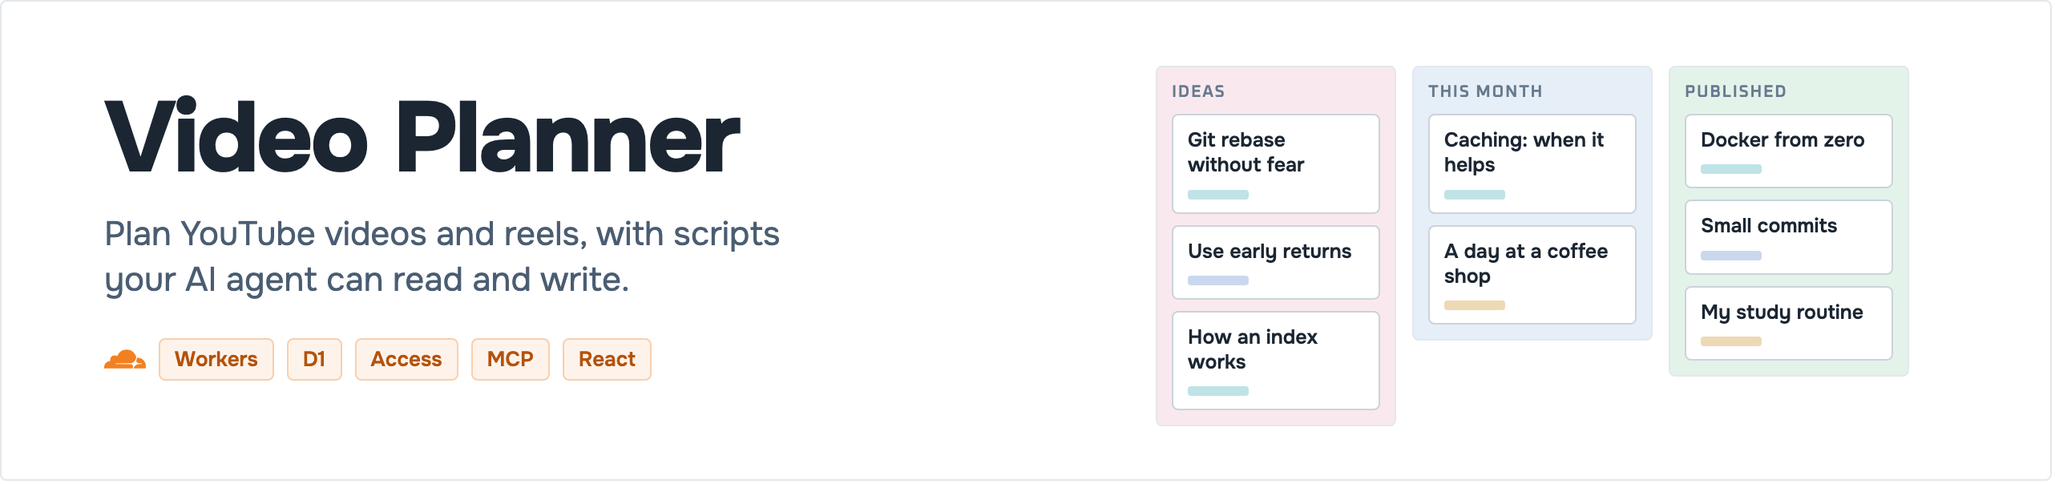
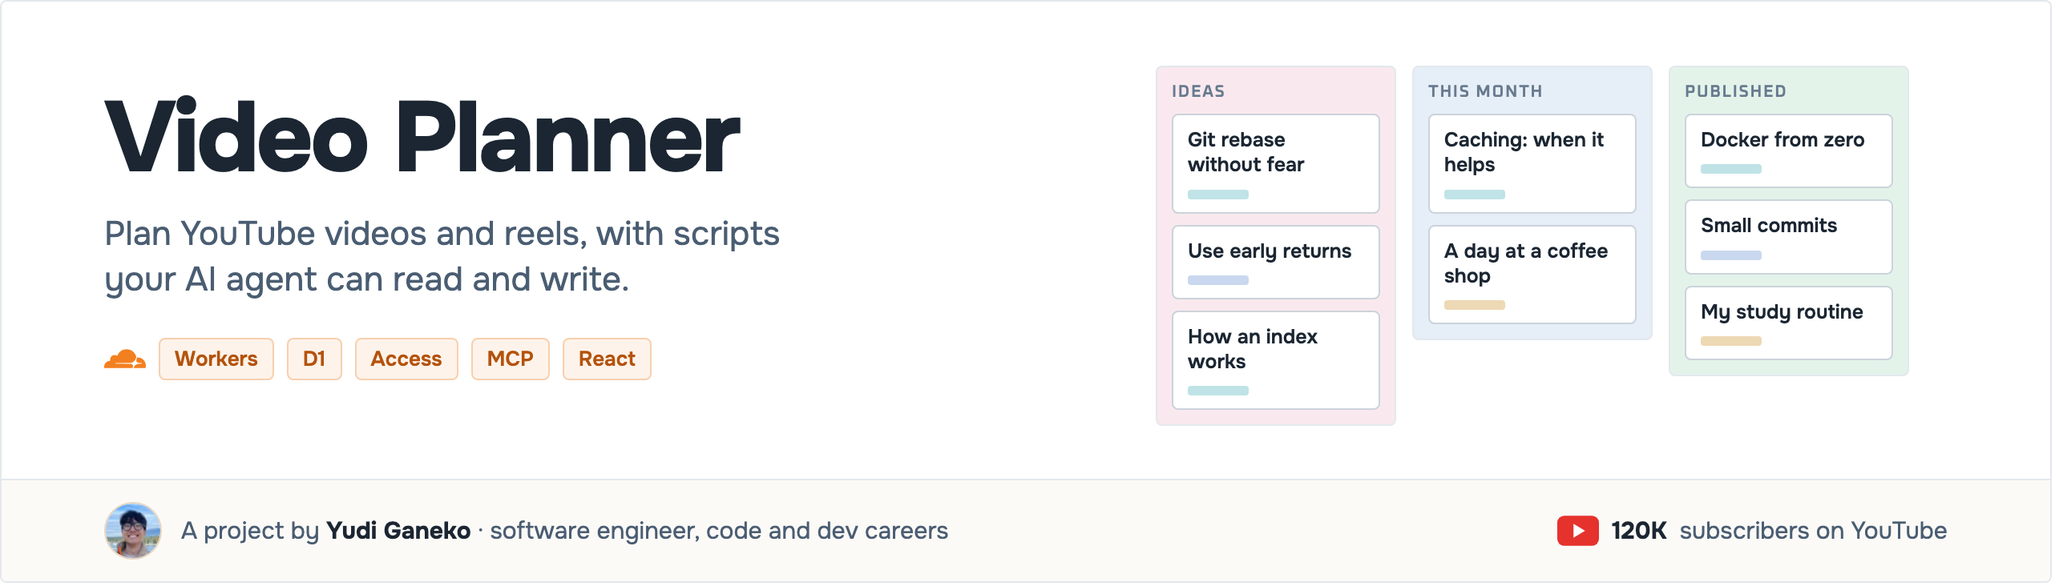
README: author card size and position (#1)
* README: author card at 340px, right under the banner

Claude-Session: https://claude.ai/code/session_0171Udt7gUdkaBY9ev9yzEQB

* Architecture: user icon for 'You' instead of a laptop

Claude-Session: https://claude.ai/code/session_0171Udt7gUdkaBY9ev9yzEQB

* README: architecture in depth as a collapsible section

Claude-Session: https://claude.ai/code/session_0171Udt7gUdkaBY9ev9yzEQB

* Banner: author line built into the banner; banner links to the YouTube channel

Claude-Session: https://claude.ai/code/session_0171Udt7gUdkaBY9ev9yzEQB

* Architecture: callers as bare icons, tiles only inside Cloudflare

Claude-Session: https://claude.ai/code/session_0171Udt7gUdkaBY9ev9yzEQB

* README: low-level architecture back on its own page

Claude-Session: https://claude.ai/code/session_0171Udt7gUdkaBY9ev9yzEQB

---------

diff --git a/docs/assets/hld.html b/docs/assets/hld.html
@@ -17,12 +17,10 @@
 <div style="position:absolute;left:348px;top:54px;display:flex;align-items:center;gap:8px" class="eb"><svg viewBox="0 0 24 24" width="18" height="18"><path d="M16.5088 16.8447c.1475-.5068.0908-.9707-.1553-1.3154-.2246-.3164-.6045-.499-1.0615-.5205l-8.6592-.1123a.1559.1559 0 0 1-.1333-.0713c-.0283-.042-.0351-.0986-.021-.1553.0278-.084.1123-.1484.2036-.1562l8.7359-.1123c1.0351-.0489 2.1601-.8868 2.5537-1.9136l.499-1.3013c.0215-.0561.0293-.1128.0147-.168-.5625-2.5463-2.835-4.4453-5.5499-4.4453-2.5039 0-4.6284 1.6177-5.3876 3.8614-.4927-.3658-1.1187-.5625-1.794-.499-1.2026.119-2.1665 1.083-2.2861 2.2856-.0283.31-.0069.6128.0635.894C1.5683 13.171 0 14.7754 0 16.752c0 .1748.0142.3515.0352.5273.0141.083.0844.1475.1689.1475h15.9814c.0909 0 .1758-.0645.2032-.1553l.12-.4268zm2.7568-5.5634c-.0771 0-.1611 0-.2383.0112-.0566 0-.1054.0415-.127.0976l-.3378 1.1744c-.1475.5068-.0918.9707.1543 1.3164.2256.3164.6055.498 1.0625.5195l1.8437.1133c.0557 0 .1055.0263.1329.0703.0283.043.0351.1074.0214.1562-.0283.084-.1132.1485-.204.1553l-1.921.1123c-1.041.0488-2.1582.8867-2.5527 1.914l-.1406.3585c-.0283.0713.0215.1416.0986.1416h6.5977c.0771 0 .1474-.0489.169-.126.1122-.4082.1757-.837.1757-1.2803 0-2.6025-2.125-4.727-4.7344-4.727" fill="#F38020"/></svg><span>Cloudflare</span></div>
 <svg style="position:absolute;left:0;top:0" width="1200" height="500"><defs><marker id="a" viewBox="0 0 10 10" refX="9" refY="5" markerWidth="7" markerHeight="7" orient="auto"><path d="M0 0L10 5L0 10z" style="fill:var(--arrow)"/></marker></defs>
 <g fill="none" style="stroke:var(--arrow)" stroke-width="1.8" marker-end="url(#a)">
- <path d="M222 176 H408"/><path d="M522 176 H628"/><path d="M190 376 H628"/>
+ <path d="M190 176 H408"/><path d="M522 176 H628"/><path d="M190 376 H628"/>
  <path d="M742 176 H820 V262 H892"/><path d="M742 376 H820 V290 H892"/></g></svg>
-<div style="position:absolute;left:52px;top:120px"><svg width="170" height="112" viewBox="0 0 170 112"><rect x="22" y="4" width="126" height="84" rx="6" fill="var(--bezel)"/><rect x="28" y="10" width="114" height="72" rx="2" fill="var(--screen)"/>
-<rect x="36" y="18" width="46" height="5" rx="1" fill="var(--bar)"/><rect x="36" y="28" width="70" height="4" rx="1" fill="var(--bar)"/><rect x="36" y="36" width="60" height="4" rx="1" fill="var(--bar)"/><rect x="36" y="44" width="66" height="4" rx="1" fill="var(--bar)"/>
-<rect x="36" y="56" width="28" height="18" rx="2" fill="#D97757" opacity=".85"/><path d="M4 92 H166 L160 104 Q158 107 154 107 H16 Q12 107 10 104 Z" fill="var(--base)"/><rect x="72" y="92" width="26" height="4" rx="2" fill="var(--bezel)" opacity=".4"/></svg></div><div class="nm" style="left:37px;top:240px">You</div>
-<div style="position:absolute;left:85.0px;top:324.0px;width:104px;height:104px;border:1px solid var(--line2);border-radius:4px;background:color-mix(in srgb,#D97757 12%,var(--bg));display:flex;align-items:center;justify-content:center"><svg viewBox="0 0 24 24" width="50" height="50"><path d="m4.7144 15.9555 4.7174-2.6471.079-.2307-.079-.1275h-.2307l-.7893-.0486-2.6956-.0729-2.3375-.0971-2.2646-.1214-.5707-.1215-.5343-.7042.0546-.3522.4797-.3218.686.0608 1.5179.1032 2.2767.1578 1.6514.0972 2.4468.255h.3886l.0546-.1579-.1336-.0971-.1032-.0972L6.973 9.8356l-2.55-1.6879-1.3356-.9714-.7225-.4918-.3643-.4614-.1578-1.0078.6557-.7225.8803.0607.2246.0607.8925.686 1.9064 1.4754 2.4893 1.8336.3643.3035.1457-.1032.0182-.0728-.164-.2733-1.3539-2.4467-1.445-2.4893-.6435-1.032-.17-.6194c-.0607-.255-.1032-.4674-.1032-.7285L6.287.1335 6.6997 0l.9957.1336.419.3642.6192 1.4147 1.0018 2.2282 1.5543 3.0296.4553.8985.2429.8318.091.255h.1579v-.1457l.1275-1.706.2368-2.0947.2307-2.6957.0789-.7589.3764-.9107.7468-.4918.5828.2793.4797.686-.0668.4433-.2853 1.8517-.5586 2.9021-.3643 1.9429h.2125l.2429-.2429.9835-1.3053 1.6514-2.0643.7286-.8196.85-.9046.5464-.4311h1.0321l.759 1.1293-.34 1.1657-1.0625 1.3478-.8804 1.1414-1.2628 1.7-.7893 1.36.0729.1093.1882-.0183 2.8535-.607 1.5421-.2794 1.8396-.3157.8318.3886.091.3946-.3278.8075-1.967.4857-2.3072.4614-3.4364.8136-.0425.0304.0486.0607 1.5482.1457.6618.0364h1.621l3.0175.2247.7892.522.4736.6376-.079.4857-1.2142.6193-1.6393-.3886-3.825-.9107-1.3113-.3279h-.1822v.1093l1.0929 1.0686 2.0035 1.8092 2.5075 2.3314.1275.5768-.3218.4554-.34-.0486-2.2039-1.6575-.85-.7468-1.9246-1.621h-.1275v.17l.4432.6496 2.3436 3.5214.1214 1.0807-.17.3521-.6071.2125-.6679-.1214-1.3721-1.9246L14.38 17.959l-1.1414-1.9428-.1397.079-.674 7.2552-.3156.3703-.7286.2793-.6071-.4614-.3218-.7468.3218-1.4753.3886-1.9246.3157-1.53.2853-1.9004.17-.6314-.0121-.0425-.1397.0182-1.4328 1.9672-2.1796 2.9446-1.7243 1.8456-.4128.164-.7164-.3704.0667-.6618.4008-.5889 2.386-3.0357 1.4389-1.882.929-1.0868-.0062-.1579h-.0546l-6.3385 4.1164-1.1293.1457-.4857-.4554.0608-.7467.2307-.2429 1.9064-1.3114Z" fill="#D97757"/></svg></div><div class="nm" style="left:37px;top:440.0px">Your AI agent</div>
+<div style="position:absolute;left:85.0px;top:124.0px;width:104px;height:104px;display:flex;align-items:center;justify-content:center"><svg viewBox="0 0 24 24" width="64" height="64" fill="none" stroke="#4A5866" stroke-width="2" stroke-linecap="round" stroke-linejoin="round"><circle cx="12" cy="8" r="4"/><path d="M4 21a8 8 0 0 1 16 0"/></svg></div><div class="nm" style="left:37px;top:240.0px">You</div>
+<div style="position:absolute;left:85.0px;top:324.0px;width:104px;height:104px;display:flex;align-items:center;justify-content:center"><svg viewBox="0 0 24 24" width="64" height="64"><path d="m4.7144 15.9555 4.7174-2.6471.079-.2307-.079-.1275h-.2307l-.7893-.0486-2.6956-.0729-2.3375-.0971-2.2646-.1214-.5707-.1215-.5343-.7042.0546-.3522.4797-.3218.686.0608 1.5179.1032 2.2767.1578 1.6514.0972 2.4468.255h.3886l.0546-.1579-.1336-.0971-.1032-.0972L6.973 9.8356l-2.55-1.6879-1.3356-.9714-.7225-.4918-.3643-.4614-.1578-1.0078.6557-.7225.8803.0607.2246.0607.8925.686 1.9064 1.4754 2.4893 1.8336.3643.3035.1457-.1032.0182-.0728-.164-.2733-1.3539-2.4467-1.445-2.4893-.6435-1.032-.17-.6194c-.0607-.255-.1032-.4674-.1032-.7285L6.287.1335 6.6997 0l.9957.1336.419.3642.6192 1.4147 1.0018 2.2282 1.5543 3.0296.4553.8985.2429.8318.091.255h.1579v-.1457l.1275-1.706.2368-2.0947.2307-2.6957.0789-.7589.3764-.9107.7468-.4918.5828.2793.4797.686-.0668.4433-.2853 1.8517-.5586 2.9021-.3643 1.9429h.2125l.2429-.2429.9835-1.3053 1.6514-2.0643.7286-.8196.85-.9046.5464-.4311h1.0321l.759 1.1293-.34 1.1657-1.0625 1.3478-.8804 1.1414-1.2628 1.7-.7893 1.36.0729.1093.1882-.0183 2.8535-.607 1.5421-.2794 1.8396-.3157.8318.3886.091.3946-.3278.8075-1.967.4857-2.3072.4614-3.4364.8136-.0425.0304.0486.0607 1.5482.1457.6618.0364h1.621l3.0175.2247.7892.522.4736.6376-.079.4857-1.2142.6193-1.6393-.3886-3.825-.9107-1.3113-.3279h-.1822v.1093l1.0929 1.0686 2.0035 1.8092 2.5075 2.3314.1275.5768-.3218.4554-.34-.0486-2.2039-1.6575-.85-.7468-1.9246-1.621h-.1275v.17l.4432.6496 2.3436 3.5214.1214 1.0807-.17.3521-.6071.2125-.6679-.1214-1.3721-1.9246L14.38 17.959l-1.1414-1.9428-.1397.079-.674 7.2552-.3156.3703-.7286.2793-.6071-.4614-.3218-.7468.3218-1.4753.3886-1.9246.3157-1.53.2853-1.9004.17-.6314-.0121-.0425-.1397.0182-1.4328 1.9672-2.1796 2.9446-1.7243 1.8456-.4128.164-.7164-.3704.0667-.6618.4008-.5889 2.386-3.0357 1.4389-1.882.929-1.0868-.0062-.1579h-.0546l-6.3385 4.1164-1.1293.1457-.4857-.4554.0608-.7467.2307-.2429 1.9064-1.3114Z" fill="#D97757"/></svg></div><div class="nm" style="left:37px;top:440.0px">Your AI agent</div>
 <div style="position:absolute;left:413.0px;top:124.0px;width:104px;height:104px;border:1px solid var(--line2);border-radius:4px;background:color-mix(in srgb,#2F8A5B 12%,var(--bg));display:flex;align-items:center;justify-content:center"><svg viewBox="0 0 24 24" width="50" height="50" fill="none" stroke="#2F8A5B" stroke-width="2" stroke-linecap="round" stroke-linejoin="round"><rect width="18" height="11" x="3" y="11" rx="2"/><path d="M7 11V7a5 5 0 0 1 10 0v4"/></svg></div><div class="nm" style="left:365px;top:240.0px">Access</div><div style="position:absolute;left:633.0px;top:124.0px;width:104px;height:104px;border:1px solid var(--line2);border-radius:4px;background:color-mix(in srgb,#F38020 12%,var(--bg));display:flex;align-items:center;justify-content:center"><svg viewBox="0 0 24 24" width="50" height="50"><path d="m8.213.063 8.879 12.136-8.67 11.739h2.476l8.665-11.735-8.89-12.14Zm4.728 0 9.02 11.992-9.018 11.883h2.496L24 12.656v-1.199L15.434.063ZM7.178 2.02.01 11.398l-.01 1.2 7.203 9.644 1.238-1.676-6.396-8.556 6.361-8.313Z" fill="#F38020"/></svg></div><div class="nm" style="left:585px;top:240.0px">App Worker</div><div style="position:absolute;left:633.0px;top:324.0px;width:104px;height:104px;border:1px solid var(--line2);border-radius:4px;background:color-mix(in srgb,#F38020 12%,var(--bg));display:flex;align-items:center;justify-content:center"><svg viewBox="0 0 24 24" width="50" height="50"><path d="m8.213.063 8.879 12.136-8.67 11.739h2.476l8.665-11.735-8.89-12.14Zm4.728 0 9.02 11.992-9.018 11.883h2.496L24 12.656v-1.199L15.434.063ZM7.178 2.02.01 11.398l-.01 1.2 7.203 9.644 1.238-1.676-6.396-8.556 6.361-8.313Z" fill="#F38020"/></svg></div><div class="nm" style="left:585px;top:440.0px">Agent Worker</div><div style="position:absolute;left:898.0px;top:224.0px;width:104px;height:104px;border:1px solid var(--line2);border-radius:4px;background:color-mix(in srgb,#D1495B 12%,var(--bg));display:flex;align-items:center;justify-content:center"><svg viewBox="0 0 24 24" width="50" height="50" fill="none" stroke="#D1495B" stroke-width="2" stroke-linecap="round" stroke-linejoin="round"><ellipse cx="12" cy="5" rx="9" ry="3"/><path d="M3 5v14a9 3 0 0 0 18 0V5"/><path d="M3 12a9 3 0 0 0 18 0"/></svg></div><div class="nm" style="left:850px;top:340.0px">D1</div>
 <div style="position:absolute;left:585px;top:470px;width:200px;text-align:center;font-size:13px;color:var(--subtle)">MCP · Bearer token</div>
 <div style="position:absolute;left:585px;top:270px;width:200px;text-align:center;font-size:13px;color:var(--subtle)">React app · REST API</div>

diff --git a/docs/assets/banner.html b/docs/assets/banner.html
@@ -12,11 +12,16 @@
 .eb{font-family:Oxanium;font-weight:600;font-size:13px;letter-spacing:.08em;text-transform:uppercase;color:var(--subtle)}
 .tile{display:flex;align-items:center;justify-content:center;border-radius:4px;flex:none}
 .nm{position:absolute;width:200px;text-align:center;font-weight:700;font-size:17px;color:var(--ink);letter-spacing:-.01em}
-</style></head><body><div style="width:1280px;height:300px;position:relative;border:1px solid var(--line);border-radius:4px;background:var(--bg);overflow:hidden">
+</style></head><body><div style="width:1280px;height:364px;position:relative;border:1px solid var(--line);border-radius:4px;background:var(--bg);overflow:hidden">
 <div style="position:absolute;left:64px;top:54px;width:640px">
  <div style="font-weight:800;font-size:62px;line-height:1.02;letter-spacing:-.03em">Video Planner</div>
  <div style="font-size:21px;color:var(--muted);margin-top:14px;line-height:1.35">Plan YouTube videos and reels, with scripts<br>your AI agent can read and write.</div>
  <div style="display:flex;gap:8px;margin-top:22px;align-items:center"><svg viewBox="0 0 24 24" width="26" height="26"><path d="M16.5088 16.8447c.1475-.5068.0908-.9707-.1553-1.3154-.2246-.3164-.6045-.499-1.0615-.5205l-8.6592-.1123a.1559.1559 0 0 1-.1333-.0713c-.0283-.042-.0351-.0986-.021-.1553.0278-.084.1123-.1484.2036-.1562l8.7359-.1123c1.0351-.0489 2.1601-.8868 2.5537-1.9136l.499-1.3013c.0215-.0561.0293-.1128.0147-.168-.5625-2.5463-2.835-4.4453-5.5499-4.4453-2.5039 0-4.6284 1.6177-5.3876 3.8614-.4927-.3658-1.1187-.5625-1.794-.499-1.2026.119-2.1665 1.083-2.2861 2.2856-.0283.31-.0069.6128.0635.894C1.5683 13.171 0 14.7754 0 16.752c0 .1748.0142.3515.0352.5273.0141.083.0844.1475.1689.1475h15.9814c.0909 0 .1758-.0645.2032-.1553l.12-.4268zm2.7568-5.5634c-.0771 0-.1611 0-.2383.0112-.0566 0-.1054.0415-.127.0976l-.3378 1.1744c-.1475.5068-.0918.9707.1543 1.3164.2256.3164.6055.498 1.0625.5195l1.8437.1133c.0557 0 .1055.0263.1329.0703.0283.043.0351.1074.0214.1562-.0283.084-.1132.1485-.204.1553l-1.921.1123c-1.041.0488-2.1582.8867-2.5527 1.914l-.1406.3585c-.0283.0713.0215.1416.0986.1416h6.5977c.0771 0 .1474-.0489.169-.126.1122-.4082.1757-.837.1757-1.2803 0-2.6025-2.125-4.727-4.7344-4.727" fill="#F38020"/></svg><span style="font-size:13px;font-weight:600;padding:4px 9px;border-radius:4px;background:var(--tag-bg);color:var(--tag);border:1px solid var(--tag-line)">Workers</span><span style="font-size:13px;font-weight:600;padding:4px 9px;border-radius:4px;background:var(--tag-bg);color:var(--tag);border:1px solid var(--tag-line)">D1</span><span style="font-size:13px;font-weight:600;padding:4px 9px;border-radius:4px;background:var(--tag-bg);color:var(--tag);border:1px solid var(--tag-line)">Access</span><span style="font-size:13px;font-weight:600;padding:4px 9px;border-radius:4px;background:var(--tag-bg);color:var(--tag);border:1px solid var(--tag-line)">MCP</span><span style="font-size:13px;font-weight:600;padding:4px 9px;border-radius:4px;background:var(--tag-bg);color:var(--tag);border:1px solid var(--tag-line)">React</span></div>
 </div>
 <div style="position:absolute;left:720px;top:40px;display:flex;gap:10px;align-items:flex-start"><div style="width:150px;padding:9px;border-radius:4px;background:#F9E9EE;display:flex;flex-direction:column;gap:7px;border:1px solid var(--line)"><span class="eb" style="font-size:10.5px">Ideas</span><div style="background:var(--bg);border:1px solid var(--line2);border-radius:4px;padding:8px 9px;font-size:12.5px;font-weight:600;line-height:1.25">Git rebase without fear<i style="display:block;margin-top:7px;width:38px;height:6px;border-radius:2px;background:#BFE3E6"></i></div><div style="background:var(--bg);border:1px solid var(--line2);border-radius:4px;padding:8px 9px;font-size:12.5px;font-weight:600;line-height:1.25">Use early returns<i style="display:block;margin-top:7px;width:38px;height:6px;border-radius:2px;background:#C9D8EE"></i></div><div style="background:var(--bg);border:1px solid var(--line2);border-radius:4px;padding:8px 9px;font-size:12.5px;font-weight:600;line-height:1.25">How an index works<i style="display:block;margin-top:7px;width:38px;height:6px;border-radius:2px;background:#BFE3E6"></i></div></div><div style="width:150px;padding:9px;border-radius:4px;background:#E6EEF7;display:flex;flex-direction:column;gap:7px;border:1px solid var(--line)"><span class="eb" style="font-size:10.5px">This month</span><div style="background:var(--bg);border:1px solid var(--line2);border-radius:4px;padding:8px 9px;font-size:12.5px;font-weight:600;line-height:1.25">Caching: when it helps<i style="display:block;margin-top:7px;width:38px;height:6px;border-radius:2px;background:#BFE3E6"></i></div><div style="background:var(--bg);border:1px solid var(--line2);border-radius:4px;padding:8px 9px;font-size:12.5px;font-weight:600;line-height:1.25">A day at a coffee shop<i style="display:block;margin-top:7px;width:38px;height:6px;border-radius:2px;background:#EDD9B4"></i></div></div><div style="width:150px;padding:9px;border-radius:4px;background:#E3F3EA;display:flex;flex-direction:column;gap:7px;border:1px solid var(--line)"><span class="eb" style="font-size:10.5px">Published</span><div style="background:var(--bg);border:1px solid var(--line2);border-radius:4px;padding:8px 9px;font-size:12.5px;font-weight:600;line-height:1.25">Docker from zero<i style="display:block;margin-top:7px;width:38px;height:6px;border-radius:2px;background:#BFE3E6"></i></div><div style="background:var(--bg);border:1px solid var(--line2);border-radius:4px;padding:8px 9px;font-size:12.5px;font-weight:600;line-height:1.25">Small commits<i style="display:block;margin-top:7px;width:38px;height:6px;border-radius:2px;background:#C9D8EE"></i></div><div style="background:var(--bg);border:1px solid var(--line2);border-radius:4px;padding:8px 9px;font-size:12.5px;font-weight:600;line-height:1.25">My study routine<i style="display:block;margin-top:7px;width:38px;height:6px;border-radius:2px;background:#EDD9B4"></i></div></div></div>
+<div style="position:absolute;left:0;right:0;bottom:0;height:64px;border-top:1px solid var(--line);background:var(--sand-bg);display:flex;align-items:center;gap:12px;padding:0 64px">
+ <img src="avatar.jpg" style="width:36px;height:36px;border-radius:50%;object-fit:cover;border:1px solid var(--sand-line)">
+ <span style="font-size:15px;color:var(--muted)">A project by <b style="color:var(--ink);font-weight:700">Yudi Ganeko</b> · software engineer, code and dev careers</span>
+ <span style="margin-left:auto;display:flex;align-items:center;gap:8px;font-size:15px;color:var(--muted)"><svg width="26" height="19" viewBox="0 0 18 13"><rect width="18" height="13" rx="3" fill="#E5322D"/><path d="M7 3.5v6l5-3z" fill="#fff"/></svg><b style="color:var(--ink);font-weight:700">120K</b> subscribers on YouTube</span>
+</div>
 </div></body></html>

diff --git a/docs/assets/build.py b/docs/assets/build.py
@@ -11,6 +11,7 @@ L = {
  "search": '<circle cx="11" cy="11" r="7"/><path d="m20 20-3.5-3.5"/>',
  "terminal": '<path d="m4 17 6-6-6-6"/><path d="M12 19h8"/>',
  "chat": '<path d="M7.9 20A9 9 0 1 0 4 16.1L2 22z"/>',
+ "user": '<circle cx="12" cy="8" r="4"/><path d="M4 21a8 8 0 0 1 16 0"/>',
  "lock": '<rect width="18" height="11" x="3" y="11" rx="2"/><path d="M7 11V7a5 5 0 0 1 10 0v4"/>',
  "database": '<ellipse cx="12" cy="5" rx="9" ry="3"/><path d="M3 5v14a9 3 0 0 0 18 0V5"/><path d="M3 12a9 3 0 0 0 18 0"/>',
  "play": '<path d="M6 4l14 8-14 8z"/>',
@@ -43,13 +44,18 @@ def col(title, bg, cards):
     cs = "".join(f'<div style="background:var(--bg);border:1px solid var(--line2);border-radius:4px;padding:8px 9px;font-size:12.5px;font-weight:600;line-height:1.25">{c}<i style="display:block;margin-top:7px;width:38px;height:6px;border-radius:2px;background:{t}"></i></div>' for c, t in cards)
     return f'<div style="width:150px;padding:9px;border-radius:4px;background:{bg};display:flex;flex-direction:column;gap:7px;border:1px solid var(--line)"><span class="eb" style="font-size:10.5px">{title}</span>{cs}</div>'
 board = col("Ideas", "#F9E9EE", [("Git rebase without fear", "#BFE3E6"), ("Use early returns", "#C9D8EE"), ("How an index works", "#BFE3E6")]) + col("This month", "#E6EEF7", [("Caching: when it helps", "#BFE3E6"), ("A day at a coffee shop", "#EDD9B4")]) + col("Published", "#E3F3EA", [("Docker from zero", "#BFE3E6"), ("Small commits", "#C9D8EE"), ("My study routine", "#EDD9B4")])
-banner = HEAD + f"""<div style="width:1280px;height:300px;position:relative;border:1px solid var(--line);border-radius:4px;background:var(--bg);overflow:hidden">
+banner = HEAD + f"""<div style="width:1280px;height:364px;position:relative;border:1px solid var(--line);border-radius:4px;background:var(--bg);overflow:hidden">
 <div style="position:absolute;left:64px;top:54px;width:640px">
  <div style="font-weight:800;font-size:62px;line-height:1.02;letter-spacing:-.03em">Video Planner</div>
  <div style="font-size:21px;color:var(--muted);margin-top:14px;line-height:1.35">Plan YouTube videos and reels, with scripts<br>your AI agent can read and write.</div>
  <div style="display:flex;gap:8px;margin-top:22px;align-items:center">{ic("cloudflare", "#F38020", 26)}{tags}</div>
 </div>
 <div style="position:absolute;left:720px;top:40px;display:flex;gap:10px;align-items:flex-start">{board}</div>
+<div style="position:absolute;left:0;right:0;bottom:0;height:64px;border-top:1px solid var(--line);background:var(--sand-bg);display:flex;align-items:center;gap:12px;padding:0 64px">
+ <img src="avatar.jpg" style="width:36px;height:36px;border-radius:50%;object-fit:cover;border:1px solid var(--sand-line)">
+ <span style="font-size:15px;color:var(--muted)">A project by <b style="color:var(--ink);font-weight:700">Yudi Ganeko</b> · software engineer, code and dev careers</span>
+ <span style="margin-left:auto;display:flex;align-items:center;gap:8px;font-size:15px;color:var(--muted)"><svg width="26" height="19" viewBox="0 0 18 13"><rect width="18" height="13" rx="3" fill="#E5322D"/><path d="M7 3.5v6l5-3z" fill="#fff"/></svg><b style="color:var(--ink);font-weight:700">{SUBS}</b> subscribers on YouTube</span>
+</div>
 </div></body></html>"""
 open(os.path.join(D, "banner.html"), "w").write(banner)
 
@@ -64,16 +70,19 @@ phone = '''<svg width="70" height="124" viewBox="0 0 70 124"><rect x="2" y="2" w
 <rect x="26" y="11" width="18" height="5" rx="2.5" fill="var(--bezel)"/><rect x="14" y="26" width="34" height="5" rx="1" fill="var(--bar)"/><rect x="14" y="36" width="42" height="4" rx="1" fill="var(--bar)"/><rect x="14" y="44" width="38" height="4" rx="1" fill="var(--bar)"/>
 <rect x="24" y="62" width="32" height="14" rx="3" fill="#5A4BD1" opacity=".85"/><rect x="14" y="82" width="30" height="12" rx="3" fill="var(--bar)"/><rect x="26" y="108" width="18" height="3" rx="1.5" fill="var(--bar)"/></svg>'''
 laptop = mac
+def bare(cx, cy, n, c, name, s=104):
+    return (f'<div style="position:absolute;left:{cx-s/2}px;top:{cy-s/2}px;width:{s}px;height:{s}px;display:flex;align-items:center;justify-content:center">{ic(n, c, 64)}</div>'
+            f'<div class="nm" style="left:{cx-100}px;top:{cy+s/2+12}px">{name}</div>')
 M = '<defs><marker id="a" viewBox="0 0 10 10" refX="9" refY="5" markerWidth="7" markerHeight="7" orient="auto"><path d="M0 0L10 5L0 10z" style="fill:var(--arrow)"/></marker></defs>'
 hld = HEAD + f"""<div style="width:1200px;height:520px;position:relative;background:var(--bg)">
 <div style="position:absolute;left:330px;top:40px;width:840px;height:456px;border:1px dashed var(--line2);border-radius:4px"></div>
 <div style="position:absolute;left:348px;top:54px;display:flex;align-items:center;gap:8px" class="eb">{ic("cloudflare", "#F38020", 18)}<span>Cloudflare</span></div>
 <svg style="position:absolute;left:0;top:0" width="1200" height="500">{M}
 <g fill="none" style="stroke:var(--arrow)" stroke-width="1.8" marker-end="url(#a)">
- <path d="M222 176 H408"/><path d="M522 176 H628"/><path d="M190 376 H628"/>
+ <path d="M190 176 H408"/><path d="M522 176 H628"/><path d="M190 376 H628"/>
  <path d="M742 176 H820 V262 H892"/><path d="M742 376 H820 V290 H892"/></g></svg>
-<div style="position:absolute;left:52px;top:120px">{laptop}</div><div class="nm" style="left:37px;top:240px">You</div>
-{sq(137, 376, "claude", "#D97757", "Your AI agent")}
+{bare(137, 176, "user", "#4A5866", "You")}
+{bare(137, 376, "claude", "#D97757", "Your AI agent")}
 {sq(465, 176, "lock", "#2F8A5B", "Access")}{sq(685, 176, "workers", "#F38020", "App Worker")}{sq(685, 376, "workers", "#F38020", "Agent Worker")}{sq(950, 276, "database", "#D1495B", "D1")}
 <div style="position:absolute;left:585px;top:470px;width:200px;text-align:center;font-size:13px;color:var(--subtle)">MCP · Bearer token</div>
 <div style="position:absolute;left:585px;top:270px;width:200px;text-align:center;font-size:13px;color:var(--subtle)">React app · REST API</div>

diff --git a/docs/architecture/draw.py b/docs/architecture/draw.py
@@ -18,6 +18,7 @@ LUCIDE = {
     "search": '<circle cx="11" cy="11" r="7"/><path d="m20 20-3.5-3.5"/>',
     "sparkles": '<path d="M9.94 15.5A2 2 0 0 0 8.5 14.06l-6.14-1.58a.5.5 0 0 1 0-.96L8.5 9.94A2 2 0 0 0 9.94 8.5l1.58-6.14a.5.5 0 0 1 .96 0L14.06 8.5a2 2 0 0 0 1.44 1.44l6.14 1.58a.5.5 0 0 1 0 .96l-6.14 1.58a2 2 0 0 0-1.44 1.44l-1.58 6.14a.5.5 0 0 1-.96 0z"/>',
     "terminal": '<path d="m4 17 6-6-6-6"/><path d="M12 19h8"/>',
+    "user": '<circle cx="12" cy="8" r="4"/><path d="M4 21a8 8 0 0 1 16 0"/>',
     "browser": '<rect x="2" y="4" width="20" height="16" rx="2"/><path d="M2 9h20M6 6.5h.01M9 6.5h.01"/>',
     "image": '<rect x="3" y="3" width="18" height="18" rx="2"/><circle cx="9" cy="9" r="2"/><path d="m21 15-3.1-3.1a2 2 0 0 0-2.8 0L6 21"/>',
     "play": '<path d="M6 4l14 8-14 8z"/>',
@@ -79,7 +80,7 @@ def svg(width, height, title, subtitle, body):
 A, B, Cx, D = 40, 420, 800, 1180
 g = []
 g.append('<rect x="390" y="92" width="1040" height="560" rx="10" class="g"/>' + f'<path transform="translate(404,98) scale(0.75)" d="{BRANDS["cloudflare"]}" fill="#F38020"/>' + '<text x="428" y="112" class="gl">CLOUDFLARE</text>')
-g.append(box(A, 150, "You", "browser", "slate", "kanban, calendar, script editor", icons=("browser",)))
+g.append(box(A, 150, "You", "browser", "slate", "kanban, calendar, script editor", icons=("user",)))
 g.append(box(A, 420, "AI agent", "Claude Code · any MCP client", "slate", "token in .agent-token", icons=("claude",)))
 g.append(box(A, 290, "YouTube", "oEmbed", "slate", "titles for video references", icons=("play",)))
 g.append(box(B, 150, "Access", "login · policy", "green", "your email only", icons=("lock",)))

diff --git a/README.md b/README.md
@@ -1,14 +1,12 @@
-<p align="center"><img src="docs/assets/banner.png" alt="Video Planner: plan YouTube videos and reels, with scripts your AI agent can read and write" width="100%"></p>
+<p align="center"><a href="https://www.youtube.com/@yudiganeko"><img src="docs/assets/banner.png" alt="Video Planner: plan YouTube videos and reels, with scripts your AI agent can read and write" width="100%"></a></p>
 
 <p align="center"><img alt="Cloudflare Workers" src="https://img.shields.io/badge/runtime-Cloudflare_Workers-F38020?style=flat-square&labelColor=1B2632&logo=cloudflare&logoColor=white"> <img alt="D1" src="https://img.shields.io/badge/database-D1-D1495B?style=flat-square&labelColor=1B2632"> <img alt="MCP" src="https://img.shields.io/badge/protocol-MCP-5A4BD1?style=flat-square&labelColor=1B2632"> <img alt="Cloudflare Access" src="https://img.shields.io/badge/auth-Cloudflare_Access-2F8A5B?style=flat-square&labelColor=1B2632"> <a href="LICENSE"><img alt="MIT license" src="https://img.shields.io/badge/license-MIT-8A6A3F?style=flat-square&labelColor=1B2632"></a></p>
-
-<p align="center"><a href="https://www.youtube.com/@yudiganeko"><img src="docs/assets/by-yudi.png" alt="A project by Yudi Ganeko, software engineer making videos about code and dev careers on YouTube" width="260"></a></p>
 
 **A planner for YouTube videos and reels**: a kanban, a calendar and a Notion-like script editor, in one Cloudflare Worker. Your AI agent gets the same powers through MCP: it lists videos, writes a script block without touching the others, moves cards. Free tier friendly. The UI is in English, with Brazilian Portuguese available (`LOCALE=pt-BR`).
 
 <p align="center"><img src="docs/assets/hld.png" alt="High-level design: you reach the app through Cloudflare Access; your AI agent reaches a second Worker over MCP with a Bearer token; both use the same D1 database" width="760"></p>
 
-<p align="center"><sub>A simplified view. Every component, with the decision behind it: <a href="ARCHITECTURE.md">ARCHITECTURE.md</a>.</sub></p>
+<p align="center"><sub>A simplified view. The low-level design, every component with the decision behind it: <a href="ARCHITECTURE.md">ARCHITECTURE.md</a>.</sub></p>
 
 ## What's inside
 
@@ -101,5 +99,5 @@ npm run dev
 
 ## Links
 
-- [ARCHITECTURE.md](ARCHITECTURE.md): components and decisions
+- [ARCHITECTURE.md](ARCHITECTURE.md): the low-level design, every component with the decision behind it
 - [Security](SECURITY.md) · [MIT license](LICENSE)

diff --git a/ARCHITECTURE.md b/ARCHITECTURE.md
@@ -1,4 +1,4 @@
-# Architecture
+# Architecture: low-level design
 
 ![Architecture](docs/architecture/architecture.png)
 
